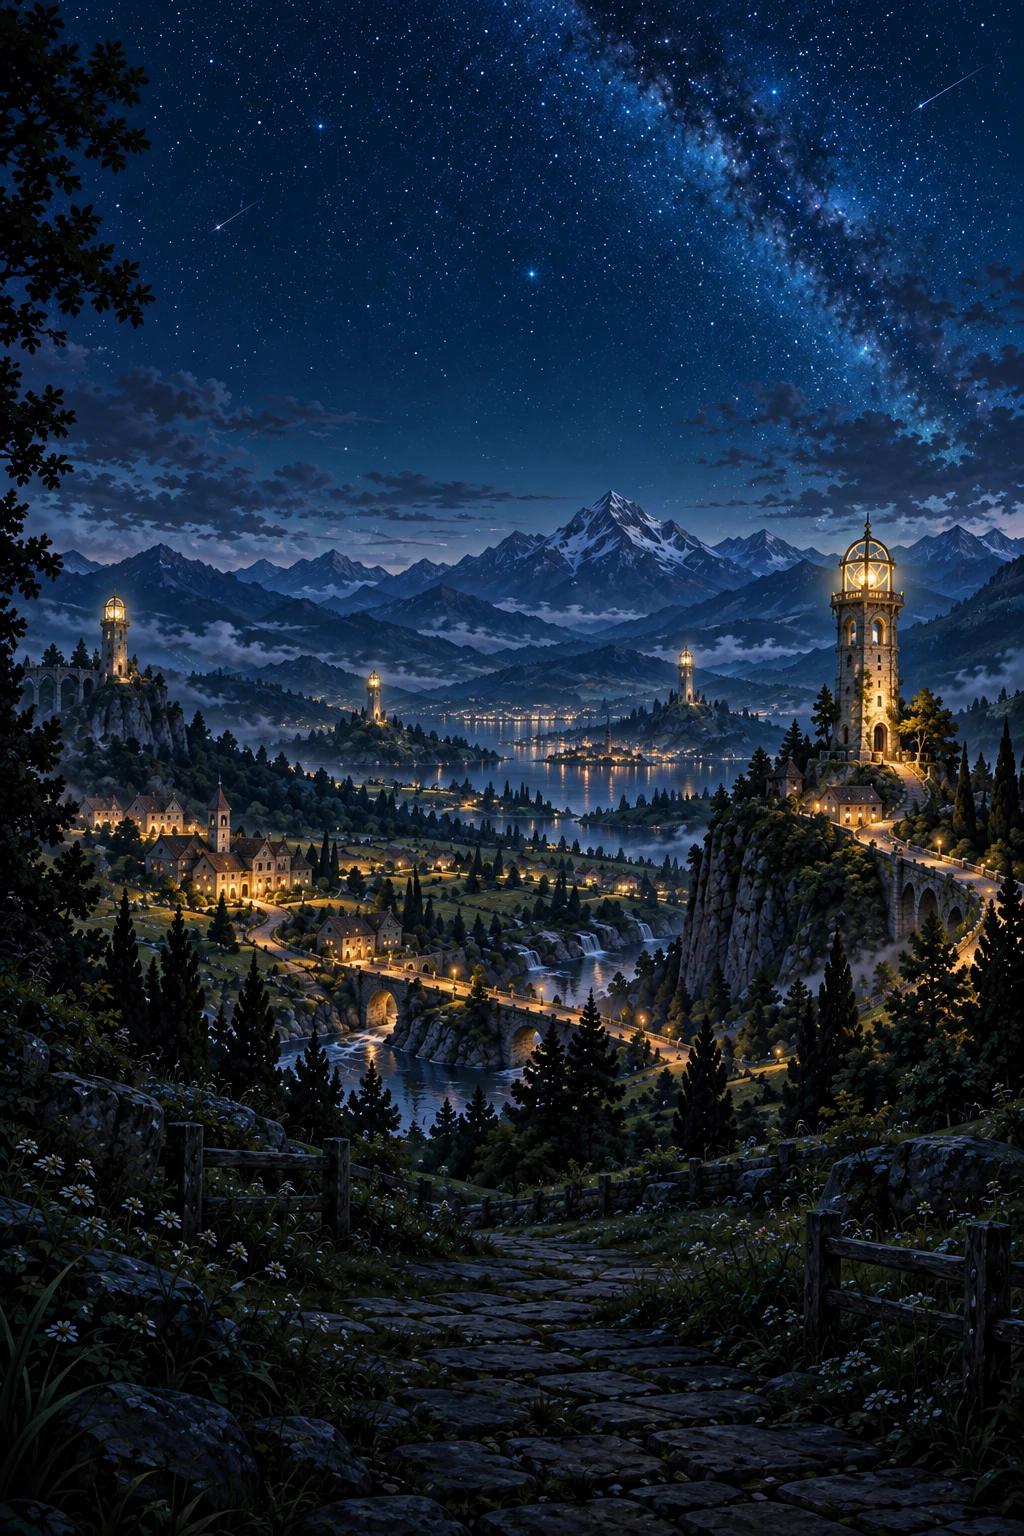
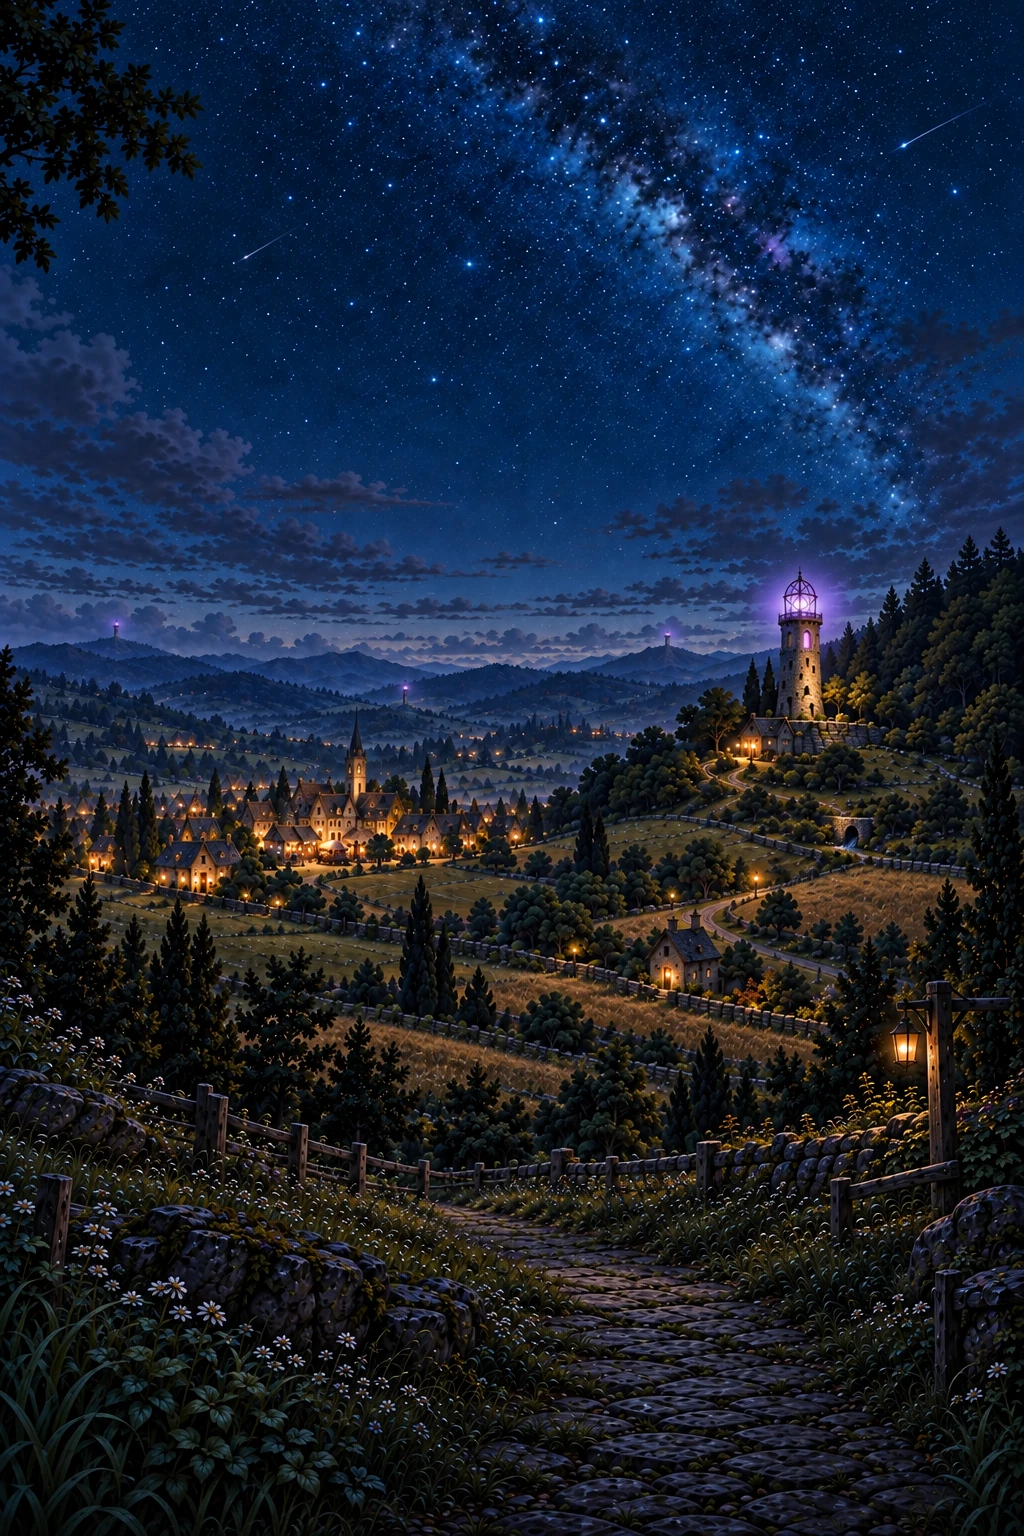
スタート画面の塔の紫の灯りとリンデ周辺の地形を修正する (#238)
* fix: align title towers and terrain with Linde setting

* docs: record title background update in changelog

diff --git a/app/start-screen.tsx b/app/start-screen.tsx
@@ -25,7 +25,7 @@ export function StartScreen({
         {/* Keep the native picture fallback so portrait art direction is selected before hydration. */}
         <img
           src="/title/starlight-towers.webp"
-          alt="星空の下、森と街道に星灯りの塔が点々と灯る風景"
+          alt="星空の下、リンデの町と丘の塔、遠くの街道に紫の灯りがともる風景"
           width={1536}
           height={1024}
           fetchPriority="high"

diff --git a/docs/art/title-art.md b/docs/art/title-art.md
@@ -10,11 +10,31 @@
 
 画面の向きに合わせて背景を切り替える。タイトルと START は風景に焼き込まず、独立して配置する。キャッチコピーは表示しない。
 
+## 採用背景と設定の対応
+
+2026-09-29に、ユーザー確認済みの横・縦の修正版へ差し替えた。内蔵 imagegen の生成原本は `assets/source/title/starlight-towers.png` と `assets/source/title/starlight-towers-portrait.png` に保存。配信用は同じ寸法の WebP（sharp、quality 90、effort 6）とする。
+
+- リンデの町、交易路、畑と林、街外れの丘の塔を主景にする。塔の窓と頂部は淡い紫、家や普通のランタンは暖色とし、[塔の灯りの設定](../story/world-and-story.md#星灯りの塔制作案)と揃える。
+- 遠景に3つの小さな紫の塔の灯りを置き、遠くへ続く街道を感じさせる。塔の所在地・固有名・方角・実距離をこの絵で確定せず、ベルネやブレッカの塔とは特定しない。
+- リンデの塔は、背後に高い林の斜面を持つ丘の平場に置く。足元の湿った石組み、坂の途中の小さな石造りの排水口と細い流れを描き、出口が詰まると水が残り得る地形にする。
+- 第一章1-7・1-8の[古い排水路](../story/story-part-1.md#1-7-古い水路をたどって--地図の端に残る線)は、大部分が地面や石組みの下を通る。大きな開渠の用水路、川、堀として描かない。タイトルでは詰まりの事件そのものを再現しない。
+- 旧背景の大湖・湖上都市・険しい雪山・断崖・大きな石橋を外した。星空と静かな暮らしの雰囲気を引き継ぐ。
+
+これらは既存の場所・排水の設定に沿った背景の構図であり、[地図帳](../story/atlas/README.md)の座標・街道の接続やシナリオを変更するものではない。
+
+配信用WebPの再生成は、依存関係をインストールしたリポジトリのルートで実行する。
+
+```sh
+node --input-type=module -e "import sharp from 'sharp'; for (const name of ['starlight-towers', 'starlight-towers-portrait']) { await sharp('assets/source/title/' + name + '.png').webp({ quality: 90, effort: 6 }).toFile('public/title/' + name + '.webp'); }"
+```
+
 ## 共有リンクのカード画像
 
 `assets/source/social/x-card-background.webp` は、[アリア](../characters/aria-reference-sheet.webp)・[レオン](../characters/leon-reference-sheet.webp)・[ミラ](../characters/mira-reference-sheet.webp) のリファレンスシートを参照して内蔵 imagegen で生成した横長の原本。淡い水彩の線と塗りを保ち、三人の後ろに星空と灯りの塔を描く。文字を生成画像へ焼き込まず、`scripts/generate-social-card.mjs` が既存の透過ロゴを合成し、1200 × 630 PNG を `public/social/x-card.png` に1枚だけ出力する。OGPとXは同じ画像URLを参照する。更新後は `npm run social-card:generate`、整合性確認は `npm run social-card:check` を使う。カードはゲーム画面には表示しない。
 
-## 生成プロンプト
+## 初版の生成プロンプト（制作履歴）
+
+以下は差し替え前の制作記録。金色の塔や湖の指定は現行背景には使わない。現行版の編集プロンプトは [2026-09-29の生成記録](../art-generation/title-landscape-2026-09-29.json) を参照する。
 
 ### 横画面の風景
 

diff --git a/CHANGELOG.md b/CHANGELOG.md
@@ -10,6 +10,8 @@
 
 ## 0.5.x（第五章の開発）
 
+- 0.5.2: スタート画面の塔の紫の灯りとリンデ周辺の地形を修正する（#238）
+
 - 0.5.1: 薬草などのアイテム登録・購入・冒険中の自動使用を追加する（#236）
 
 - 0.5.0: 第五章計画と旅団の拠点機能の設計案を追加 (#231)
